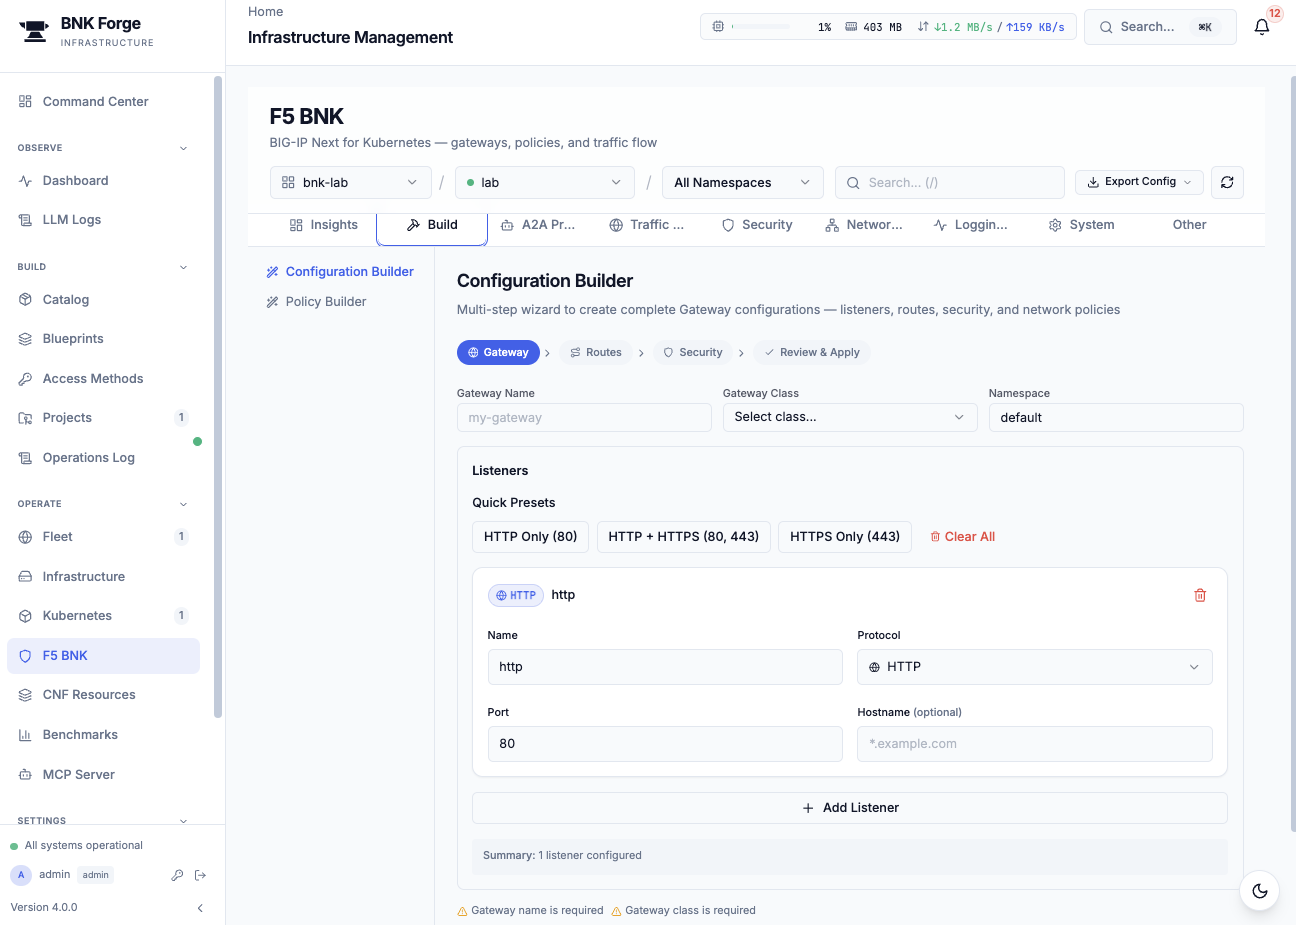
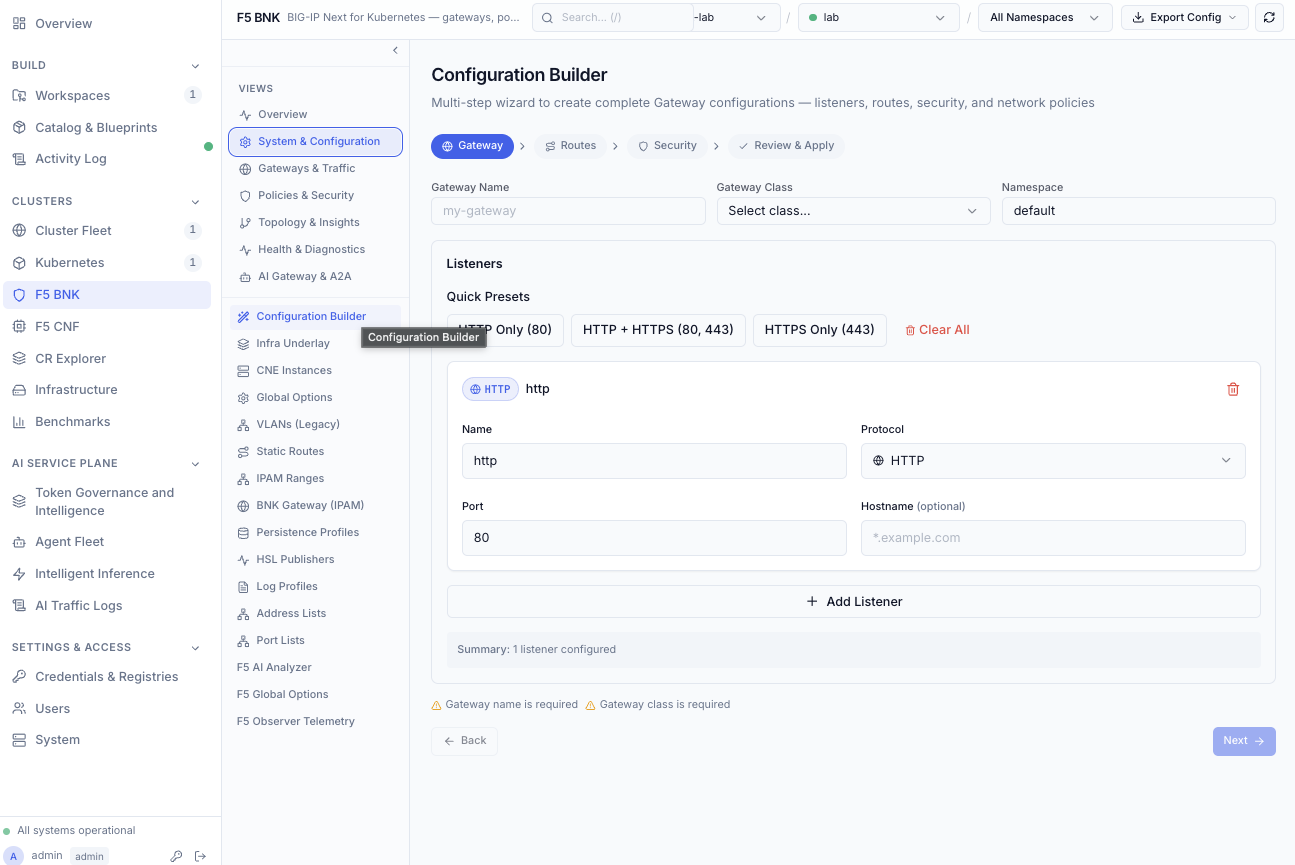
challenge 11 on Forge 4.3.4: new menus (Gateways & Traffic > Backends, System & Configuration > Configuration Builder), topology graph replaces the Kubernetes gateway card, licence card Unknown after refresh, new screenshots

diff --git a/instruqt/bnk-host-install/11-day-2/assignment.md b/instruqt/bnk-host-install/11-day-2/assignment.md
@@ -153,19 +153,19 @@ In Forge, pick your workspace (`bnk-lab` on path B, `operations` on paths A and 
 
 **1. Which release is running?** Open **Clusters > Kubernetes**, scroll to **F5 BNK Installation**:
 
-![Forge F5 BNK Installation card: FLO deploy flow, FLO 2.30.0-0.11.4, TMM 5/5 ready, CNE controller running, CNEInstance features, VLANs external 10.10.10.11 (1.1) and internal 172.18.0.250 (1.2)](../assets/day2-5-bnk-installation.png)
+![Forge Kubernetes page: Cluster Ready, 3/3 nodes, cert-manager v1.16.2, Multus 3/3, and the F5 BNK Installation card, install method FLO deploy flow, 32 F5 CRDs](../assets/day2-5-bnk-installation.png)
 
-Install method *FLO deploy flow*, FLO **2.30.0-0.11.4**, TMM 5/5, and the two VLANs with their self
-IPs on interfaces 1.1 and 1.2. Every value matches `versions.env` and `clusters/lab.network.yaml`.
+Forge found BNK by itself: install method *FLO deploy flow*, and BNK's custom resource types
+registered in the cluster. The exact versions come from the terminal check further down.
 
 **2. Is it healthy?** Open **Clusters > F5 BNK** (it opens on **Overview**):
 
-![Forge BNK Health Dashboard: Platform Healthy, 5/5 TMM containers, 1 gateway, 1 route, 2 VLANs, all components Healthy](../assets/day2-1-bnk-health.png)
+![Forge F5 BNK Overview: BNK Platform Healthy, 5/5 TMM containers, 1 gateway, 1 route, 2 VLANs, BNK License Unknown, operator, controller, CRD installer, TMM, Gateways and VLANs all Healthy](../assets/day2-1-bnk-health.png)
 
 *BNK Platform Healthy*, and Forge has noticed your app by itself: **1 gateway, 1 route**.
 
-**Is it licensed?** Forge's **License Status** card is in *passive mode*, so it shows nothing until
-you press its refresh button and Forge asks F5's licensing service. Ask the cluster itself:
+**Is it licensed?** Forge's **BNK License** card says *Unknown, no expiry information available*.
+Forge cannot read the licence status that BNK 2.4.2 reports. Ask the cluster itself:
 
 ```run
 lab status
@@ -174,21 +174,26 @@ lab status
 `licence Active (eval, expires …)`. An auditor accepts the system of record, and for the licence
 that is the cluster's `License` object.
 
-**3. What does it expose?** Open **F5 BNK > Traffic > Backends**:
+**3. What does it expose?** In **Clusters > F5 BNK**, open **Gateways & Traffic > Backends**:
 
-![Forge Traffic, Backends: 42 services, 1 mapped, hello in namespace hello with HTTPRoute hello on listener hello/http port 80](../assets/day2-3-backends.png)
+![Forge Gateways & Traffic, Backends: 33 services, 1 mapped, hello in namespace hello with HTTPRoute hello on listener hello/http port 80](../assets/day2-3-backends.png)
 
 Of every Service in the cluster, exactly **one** is exposed through BNK: `hello`, by HTTPRoute `hello`
 on listener `hello/http`, port 80. Everything else is internal. That one line is the answer to *"what
 does this cluster expose?"*
 
-The **Kubernetes** dashboard tells the same story from the platform side, *Gateways 1* and an F5 BNK
-proxy with backend `hello/hello`:
+**4. How is it wired?** Open **Topology & Insights > Object Topology Graph**. One page holds the
+whole chain, from the Gateway down to the wire:
 
-![Forge Kubernetes dashboard: Gateway API detected with 1 gateway, Existing Proxies F5 BNK with backends hello/hello](../assets/day2-4-cluster.png)
+![Forge Object Topology Graph: gateway hello on VIP 10.30.30.10 with listener http and route hello, the CNEInstance with attachments external-net on interface 1.1 and internal-net on 1.2, VLAN external with self IP 10.10.10.11/24 and VLAN internal with 172.18.0.250/16, both Programmed](../assets/day2-6-topology.png)
+
+Gateway `hello` on VIP `10.30.30.10`, its listener and route. Below it, the data plane: the two
+network attachments as TMM interfaces **1.1** and **1.2**, and the VLANs on them with their self IPs,
+`10.10.10.11` outside and `172.18.0.250` inside. That inside address is the `RemoteAddr` your hello
+pod reported in challenge 10. Every value matches `clusters/lab.network.yaml`.
 
 > ### Going further: build a Gateway in Forge
-> **F5 BNK > Build > Configuration Builder** is a wizard that writes a Gateway, its routes and its
+> **F5 BNK > System & Configuration > Configuration Builder** is a wizard that writes a Gateway, its routes and its
 > security settings for you, then reviews and applies them. It is a quick way to learn the Gateway
 > API's shape. At Northwind, the YAML it produces still goes into git through a pull request.
 >

diff --git a/instruqt/bnk-host-install/08-forge-deploy/assignment.md b/instruqt/bnk-host-install/08-forge-deploy/assignment.md
@@ -184,9 +184,9 @@ Now open **Clusters > F5 BNK**. It opens on **Overview**:
 controller and the CRD installer all green. Zero gateways for now. You will add the first one in
 challenge 10.
 
-> The **License Status** card is in *passive mode*: Forge does not ask F5's licensing service on
-> its own. Press the card's refresh button to make it ask. The cluster itself knows the answer
-> already, and you will check it from the terminal in a moment.
+> The licence card starts in *passive mode*. Press its refresh button and it turns to **BNK License
+> Unknown**: this Forge version cannot read the licence status that BNK 2.4.2 reports. The cluster
+> itself knows the answer, and you will check it from the terminal in a moment.
 
 One more view. **Clusters > Cluster Fleet** is where an operations team with many clusters starts
 the day. Yours has one, **lab**, and it is **Healthy**:
